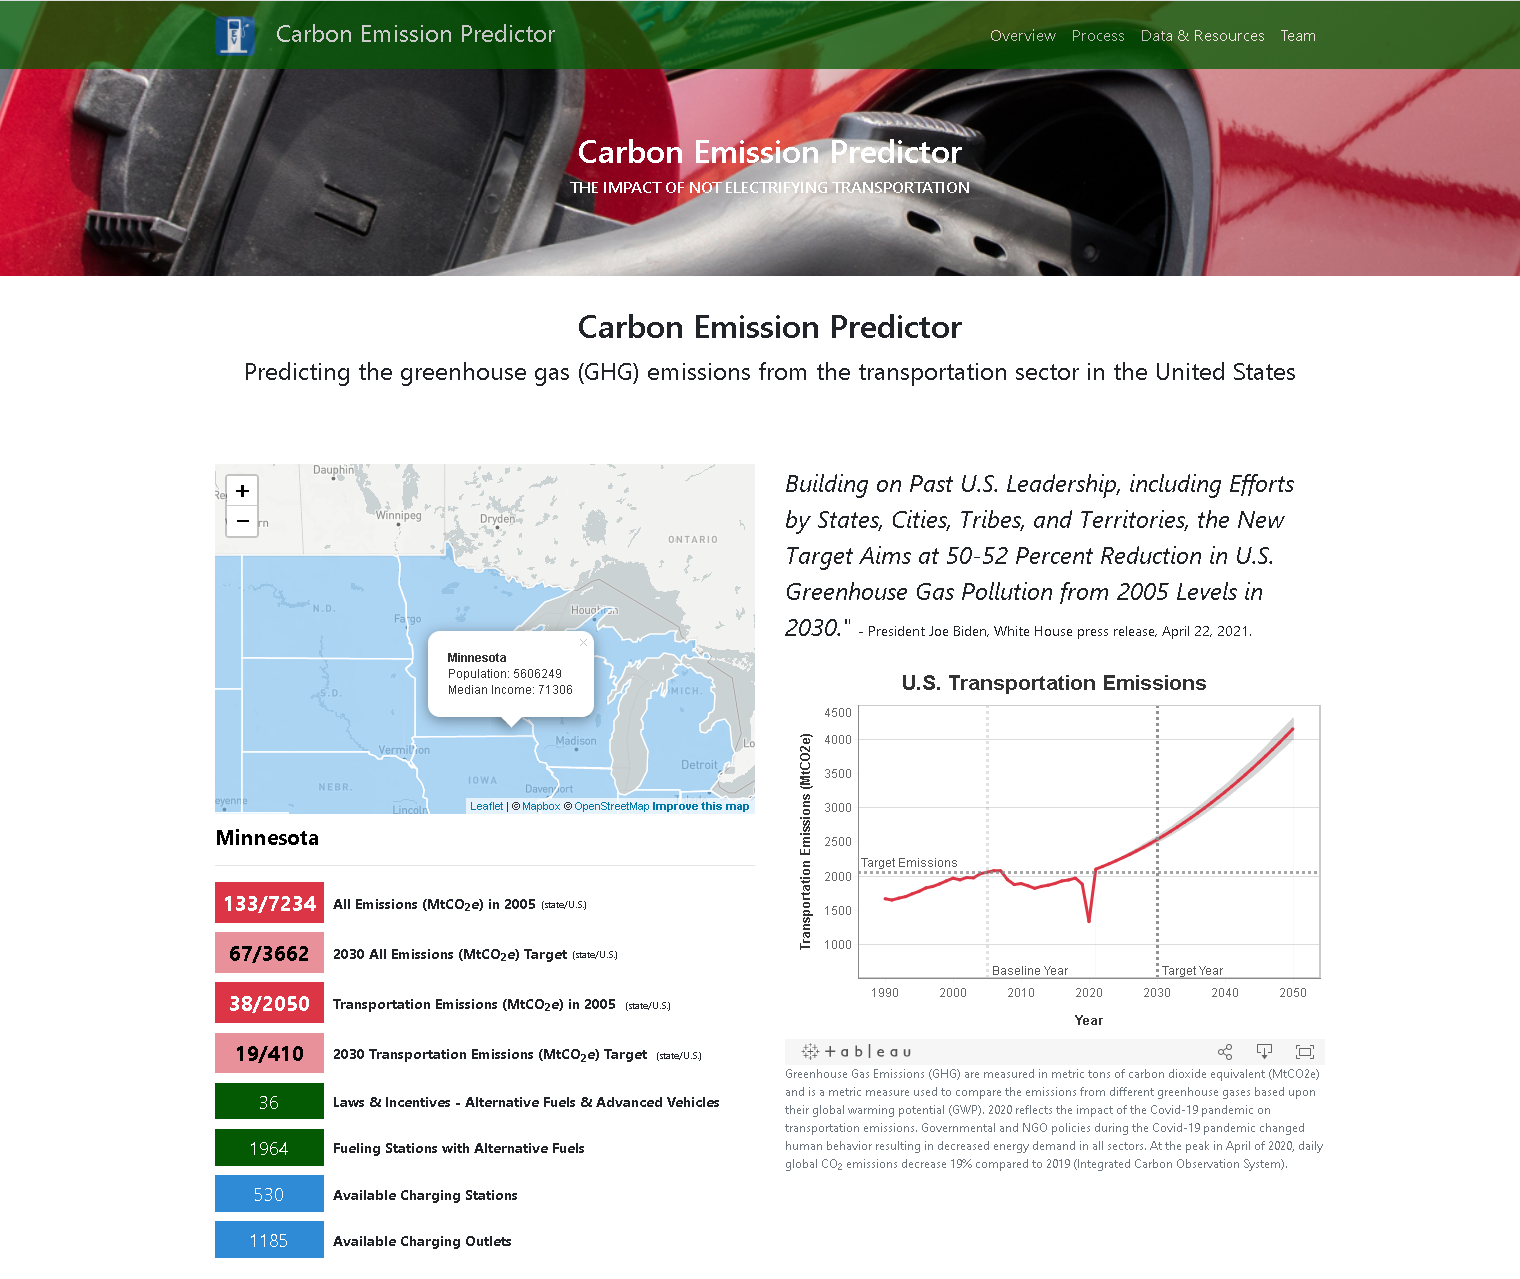
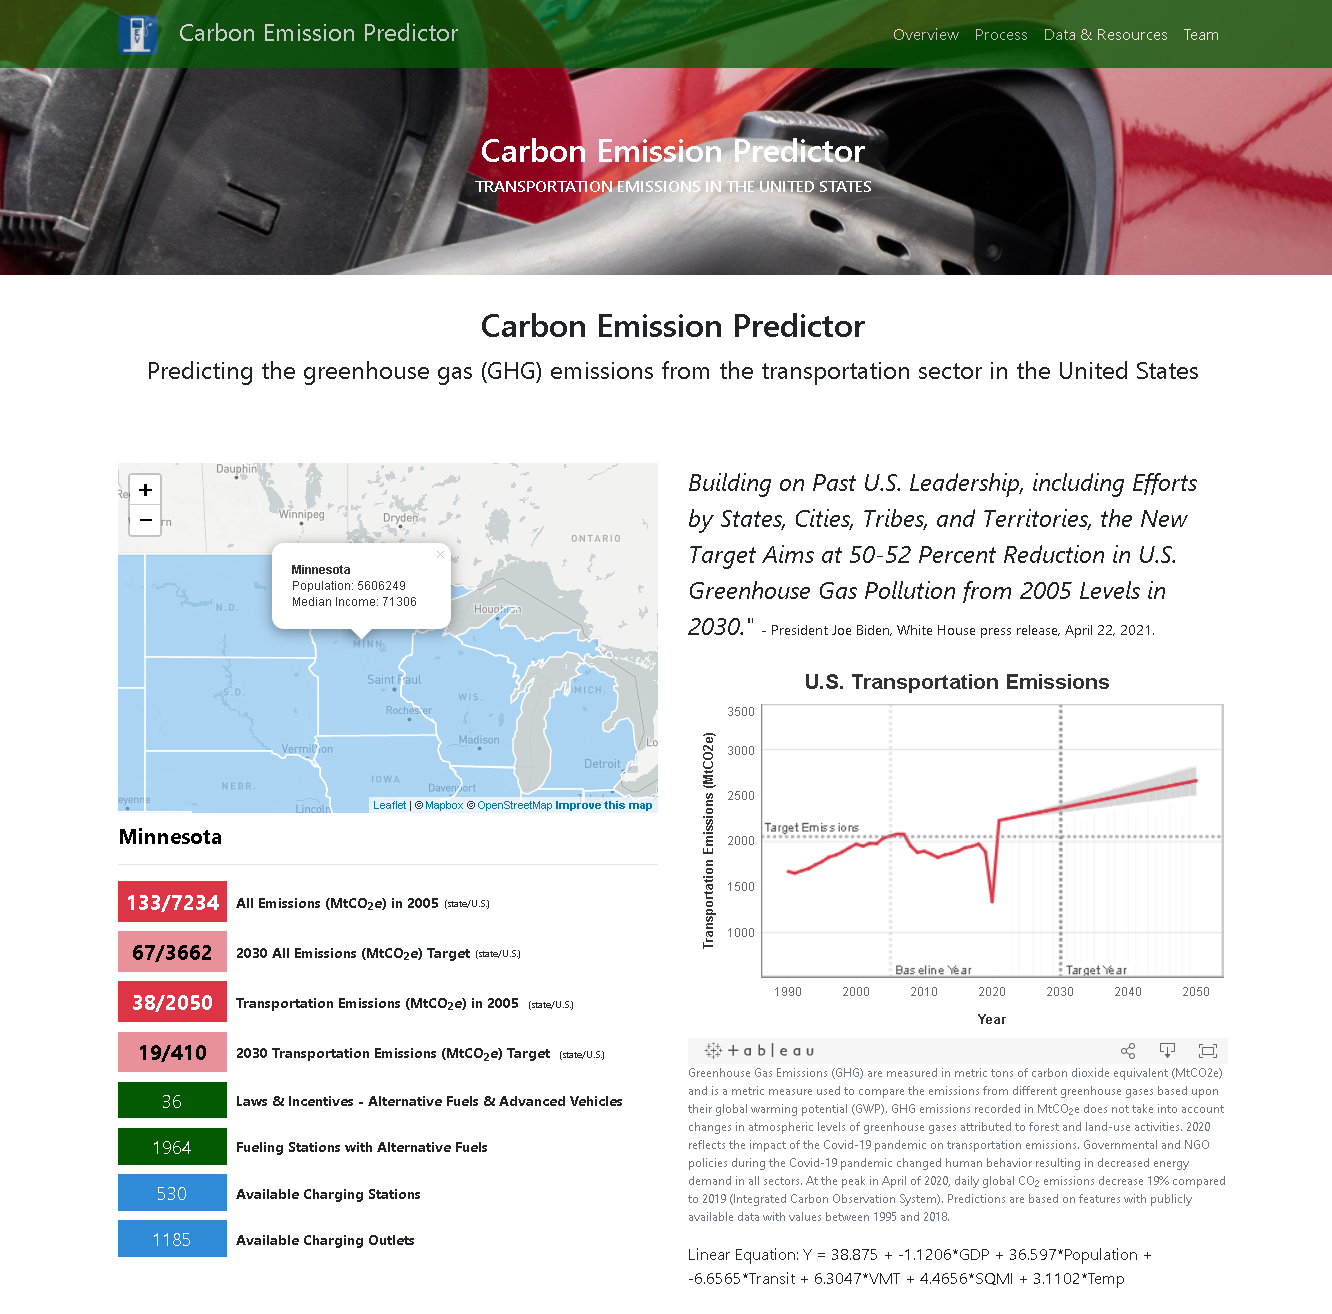
minor edits

Changed region(s): [[0.0616, 0.3354, 0.9234, 1.0], [0.0, 0.0, 1.0, 0.3049], [0.5233, 0.3659, 0.8926, 0.5794]]

diff --git a/index.html b/index.html
@@ -200,22 +200,51 @@
                         <!-- The div that holds predictor graph -->
                         <div id="predictor">
 
-                            <div class='tableauPlaceholder' id='viz1623893117192' style='position: relative'><noscript><a href='#'><img alt='U.S. Transportation Emissions ' src='https:&#47;&#47;public.tableau.com&#47;static&#47;images&#47;em&#47;emissions_final2&#47;U_S_TransportationEmissions&#47;1_rss.png' style='border: none' /></a></noscript><object class='tableauViz'  style='display:none;'><param name='host_url' value='https%3A%2F%2Fpublic.tableau.com%2F' /> <param name='embed_code_version' value='3' /> <param name='site_root' value='' /><param name='name' value='emissions_final2&#47;U_S_TransportationEmissions' /><param name='tabs' value='no' /><param name='toolbar' value='yes' /><param name='static_image' value='https:&#47;&#47;public.tableau.com&#47;static&#47;images&#47;em&#47;emissions_final2&#47;U_S_TransportationEmissions&#47;1.png' /> <param name='animate_transition' value='yes' /><param name='display_static_image' value='yes' /><param name='display_spinner' value='yes' /><param name='display_overlay' value='yes' /><param name='display_count' value='yes' /><param name='language' value='en-US' /></object></div>                <script type='text/javascript'>                    var divElement = document.getElementById('viz1623893117192');                    var vizElement = divElement.getElementsByTagName('object')[0];                    vizElement.style.width='100%';vizElement.style.height=(divElement.offsetWidth*0.75)+'px';                    var scriptElement = document.createElement('script');                    scriptElement.src = 'https://public.tableau.com/javascripts/api/viz_v1.js';                    vizElement.parentNode.insertBefore(scriptElement, vizElement);                </script>
+                            <div class='tableauPlaceholder' id='viz1623893117192' style='position: relative'>
+                                <noscript><a href='#'><img alt='U.S. Transportation Emissions '
+                                            src='https:&#47;&#47;public.tableau.com&#47;static&#47;images&#47;em&#47;emissions_final2&#47;U_S_TransportationEmissions&#47;1_rss.png'
+                                            style='border: none' /></a></noscript><object class='tableauViz'
+                                    style='display:none;'>
+                                    <param name='host_url' value='https%3A%2F%2Fpublic.tableau.com%2F' />
+                                    <param name='embed_code_version' value='3' />
+                                    <param name='site_root' value='' />
+                                    <param name='name' value='emissions_final2&#47;U_S_TransportationEmissions' />
+                                    <param name='tabs' value='no' />
+                                    <param name='toolbar' value='no' />
+                                    <param name='static_image'
+                                        value='https:&#47;&#47;public.tableau.com&#47;static&#47;images&#47;em&#47;emissions_final2&#47;U_S_TransportationEmissions&#47;1.png' />
+                                    <param name='animate_transition' value='yes' />
+                                    <param name='display_static_image' value='yes' />
+                                    <param name='display_spinner' value='yes' />
+                                    <param name='display_overlay' value='yes' />
+                                    <param name='display_count' value='yes' />
+                                    <param name='language' value='en-US' />
+                                </object>
+                            </div>
+                            <script
+                                type='text/javascript'>                    var divElement = document.getElementById('viz1623893117192'); var vizElement = divElement.getElementsByTagName('object')[0]; vizElement.style.width = '100%'; vizElement.style.height = (divElement.offsetWidth * 0.75) + 'px'; var scriptElement = document.createElement('script'); scriptElement.src = 'https://public.tableau.com/javascripts/api/viz_v1.js'; vizElement.parentNode.insertBefore(scriptElement, vizElement);</script>
 
 
-                            <p class="figure-caption" class="red">
+                            <p class="figure-caption">
                                 Greenhouse Gas Emissions (GHG) are measured in metric tons of carbon dioxide equivalent
                                 (MtCO2e) and is a metric measure used to compare the emissions from different greenhouse
-                                gases based upon their global warming potential (GWP).
+                                gases based upon their global warming potential (GWP). GHG emissions recorded in
+                                MtCO<sub>2</sub>e does
+                                not take into account changes in atmospheric levels of greenhouse gases attributed to
+                                forest and land-use activities.
                                 2020 reflects the impact of the Covid-19 pandemic on transportation emissions.
                                 Governmental and NGO policies during the Covid-19 pandemic changed human
                                 behavior resulting in decreased energy demand in all sectors. At the peak in April of
                                 2020, daily global
                                 CO<sub>2</sub> emissions decrease 19% compared to 2019 (Integrated Carbon Observation
-                                System).
+                                System). Predictions are based on features with publicly available data with values
+                                between 1995 and
+                                2018.
                             </p>
-                            <p>Linear Equation: Y = 38.875 + -1.1206*GDP + 36.597*Population + -6.6565*Transit +
-                                6.3047*VMT + 4.4656*SQMI + 3.1102*Temp</p>
+                            <p>
+                                Linear Equation: Y = 38.875 + -1.1206*GDP + 36.597*Population + -6.6565*Transit +
+                                6.3047*VMT + 4.4656*SQMI + 3.1102*Temp
+                            </p>
                         </div>
                     </div>
                 </div>
@@ -231,12 +260,10 @@
             <div class="text-center">
                 <div class="row">
                     <div class="col-lg-12 mx-auto">
-                        
                         <p class="lead">
                             The worldwide predicted global warming increase above pre-industrial levels of
                             1.5&deg;C may have a substantial impacts and risks by 2050.
                         </p>
-
                     </div>
                 </div>
             </div>
@@ -248,21 +275,22 @@
             <div class="row">
                 <div class="col-lg-4">
                     <h1>Overview</h1>
-                    <p class="lead">
+                    <p class="lead"><br>
                         This project focuses on the measured CO<sub>2</sub> in the transportation sector
                         of the U.S. and is used to predict CO<sub>2</sub> levels into the
                         future.
                     </p>
 
-                    <p>Transportation makes up 29% of the total U.S. greenhouse gas emissions. In April of 2021,
-                        President Biden announced a target of 50-52% reduction in emissions from 2005 levels. Are we on
-                        track for meeting this goal in the transportation sector and what are the factors that have the
-                        biggest impact on meeting this goal? The
-                        Environmental Protection
-                        Agency (EPA) has <a
+                    <p>
+                        Transportation makes up 29% of the total U.S. greenhouse gas emissions. In April of 2021,
+                        President Biden announced a target of 50-52% reduction in emissions from 2005 levels. The
+                        Environmental Protection Agency (EPA) has <a
                             href="https://www.epa.gov/transportation-air-pollution-and-climate-change/what-you-can-do-reduce-pollution-vehicles-and-engines#drive_less"
                             target="_blank">recommendations</a> for what can be done to reduce pollution from
                         vehicles.
+                    </p>
+                    <p>Are we on track for meeting this goal in the transportation sector and what are the factors that
+                        have the biggest impact on meeting this goal?
                     </p>
                     <p>
                         This project uses machine learning to determine the predictability of carbon emissions in the
@@ -273,7 +301,6 @@
                         Data from various sources was used to test-train a dataset to determine the predictability of
                         Green House Gas (GHG) emissions due to transportation.
                     </p>
-
                 </div>
 
                 <div class="col-lg-8">
@@ -288,7 +315,7 @@
                                 <param name='site_root' value='' />
                                 <param name='name' value='GHGEmissionsPredictionModel&#47;CO2EmissionsStory' />
                                 <param name='tabs' value='no' />
-                                <param name='toolbar' value='yes' />
+                                <param name='toolbar' value='no' />
                                 <param name='static_image'
                                     value='https:&#47;&#47;public.tableau.com&#47;static&#47;images&#47;GH&#47;GHGEmissionsPredictionModel&#47;CO2EmissionsStory&#47;1.png' />
                                 <param name='animate_transition' value='yes' />
@@ -300,27 +327,7 @@
                             </object></div>
                         <script
                             type='text/javascript'>                    var divElement = document.getElementById('viz1623890352532'); var vizElement = divElement.getElementsByTagName('object')[0]; vizElement.style.width = '580px'; vizElement.style.height = '852px'; var scriptElement = document.createElement('script'); scriptElement.src = 'https://public.tableau.com/javascripts/api/viz_v1.js'; vizElement.parentNode.insertBefore(scriptElement, vizElement);</script>
-                        <p class="figure-caption"><br>
-                            <span class="red">This is the caption for the US metrics that are selected via
-                                dropdown/checkbox.</span>
-                        </p>
                     </div>
-                </div>
-            </div>
-
-            <div class="row">
-                <div class="col-lg-12">
-
-                    <p><strong> Assumptions</strong> </p>
-                    <ul>
-                        <li>
-                            GHG emissions recorded in MtCO<sub>2</sub>e (metric tons CO<sub>2</sub> equivalent) and does
-                            not take into account changes in atmospheric levels of greenhouse gases attributed to
-                            forest and land-use activities.
-                        </li>
-                        <li>Predictions are based on features with publicly available data with values between 1995 and
-                            2018.</li>
-                    </ul>
                 </div>
             </div>
     </section>
@@ -330,13 +337,13 @@
 
 
     <!-- PROCESS SECTION-->
-    <section id="process"  class="bg-light">
+    <section id="process" class="bg-light">
         <div class="container">
             <div class="row">
                 <div class="col-lg-8 mx-auto">
                     <h1 align="center">Process</h1>
                     <p class="lead">
-                        This project showcases using machine learning to make a predictions and visualizations to
+                        This project showcases using machine learning to make a prediction and uses visualizations to
                         provide the user an interactive means to explore data relevant to the prediction.
                     </p>
 

diff --git a/README.md b/README.md
@@ -33,7 +33,7 @@ View the <a href ="https://nbullerds.github.io/ml_co_emission_equiv_prediction" 
 
 ---
 ## Process
-This project showcases using machine learning to make a predictions and  visualizations to provide the user an interactive means to explore data relevant to the prediction.
+This project showcases using machine learning to make a prediction and  uses visualizations to provide the user an interactive means to explore data relevant to the prediction.
 
 <b>Predictive Data Analysis with Multiple Linear Regression Machine Learning</b>
 
